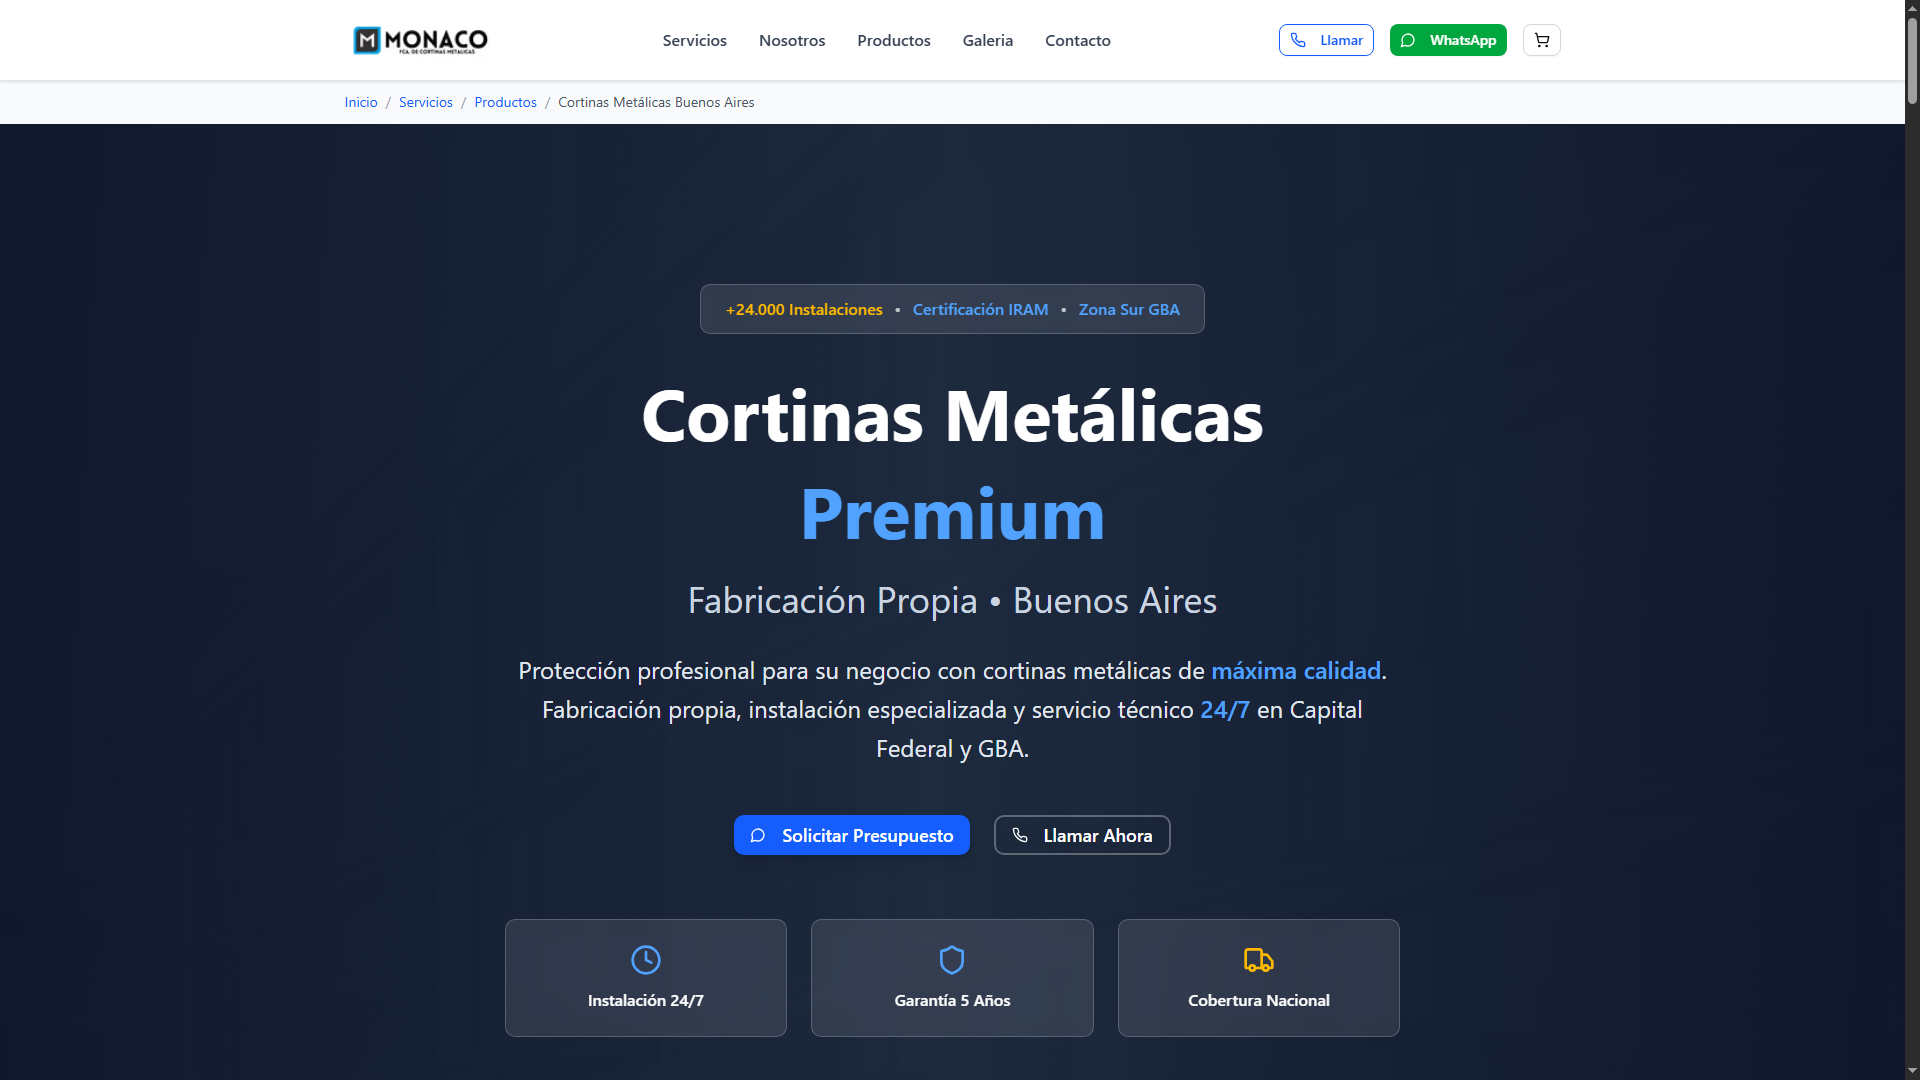
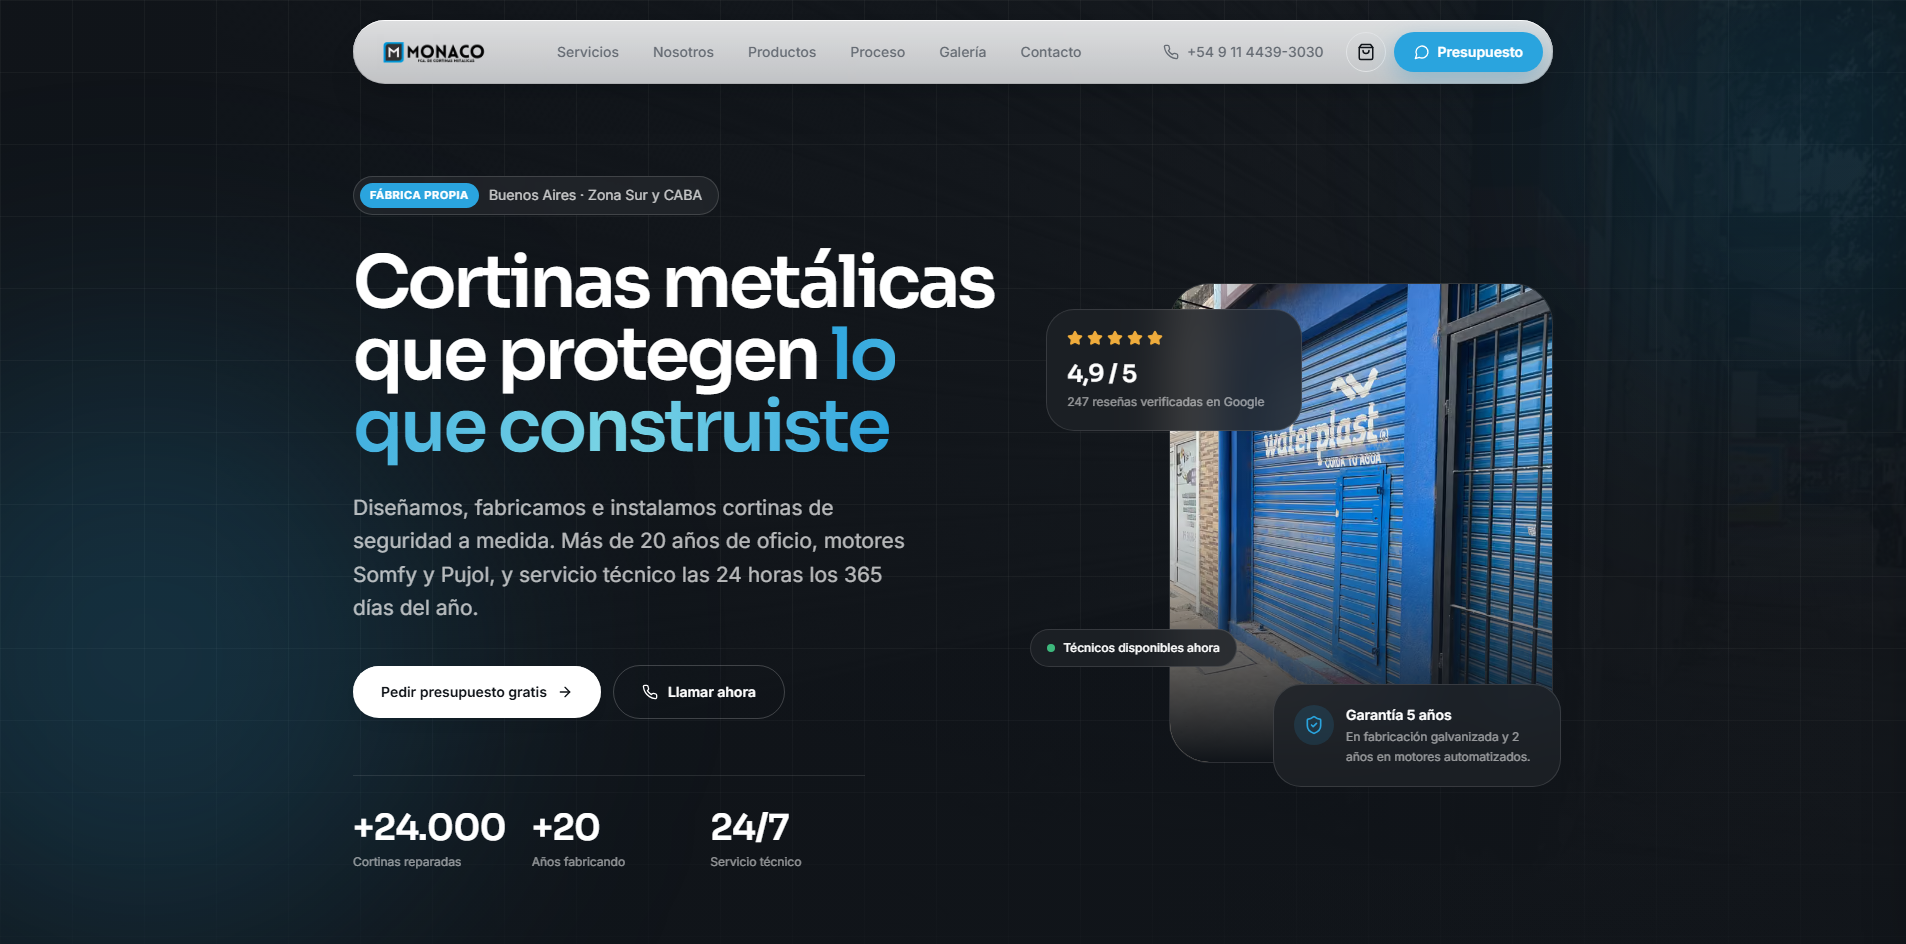
Ajustes de Monaco

diff --git a/src/data/lucas-projects.tsx b/src/data/lucas-projects.tsx
@@ -291,7 +291,7 @@ const lucasProjects: Project[] = [
       frontend: [PROJECT_SKILLS.next, PROJECT_SKILLS.tailwind],
       backend: [],
     },
-    live: "https://www.monacocortinas.com.ar/",
+    live: "https://monaco.orionmkt.com.ar/",
   },
   {
     id: "monacoseg",
